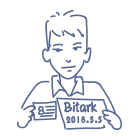
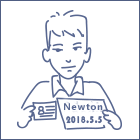
去除bitark字眼。

Changed region(s): [[0.0, 0.0, 1.0, 1.0], [0.4571, 0.6857, 0.7429, 0.8286]]

diff --git a/src/public/index/banner02.vue b/src/public/index/banner02.vue
@@ -6,9 +6,9 @@
         <a href="javascript:;" target="_blank">
             <img :src="image3"/>
         </a>
-        <a href="javascript:;" target="_blank">
+        <router-link :to="{name:'otc_index'}">
             <img :src="image2"/>
-        </a>
+        </router-link>
     </div>
 </template>
 
@@ -16,11 +16,9 @@
 import {mapGetters} from 'vuex'
 import otcEN from '@/assets/images/home/banner-otc-en.png'
 import otcZH from '@/assets/images/home/banner-otc-zh.png'
-import forumZHCN from '@/assets/images/home/banner-forum-zh-cn.png'
-import forumZHTW from '@/assets/images/home/banner-forum-zh-tw.png'
-import forumEN from '@/assets/images/home/banner-forum-en.png'
 import newEN from '@/assets/images/home/banner-new-en.png'
 import newZH from '@/assets/images/home/banner-new-zh.png'
+import exchange from '@/assets/images/home/banner-exchange.png'
 export default {
   computed: {
     ...mapGetters(['getLang']),
@@ -32,13 +30,7 @@ export default {
       }
     },
     image2 () {
-      if (this.getLang === 'zh-CN') {
-        return forumZHCN
-      } else if (this.getLang === 'cht') {
-        return forumZHTW
-      } else {
-        return forumEN
-      }
+      return exchange
     },
     image3 () {
       if (this.getLang === 'zh-CN' || this.getLang === 'cht') {
